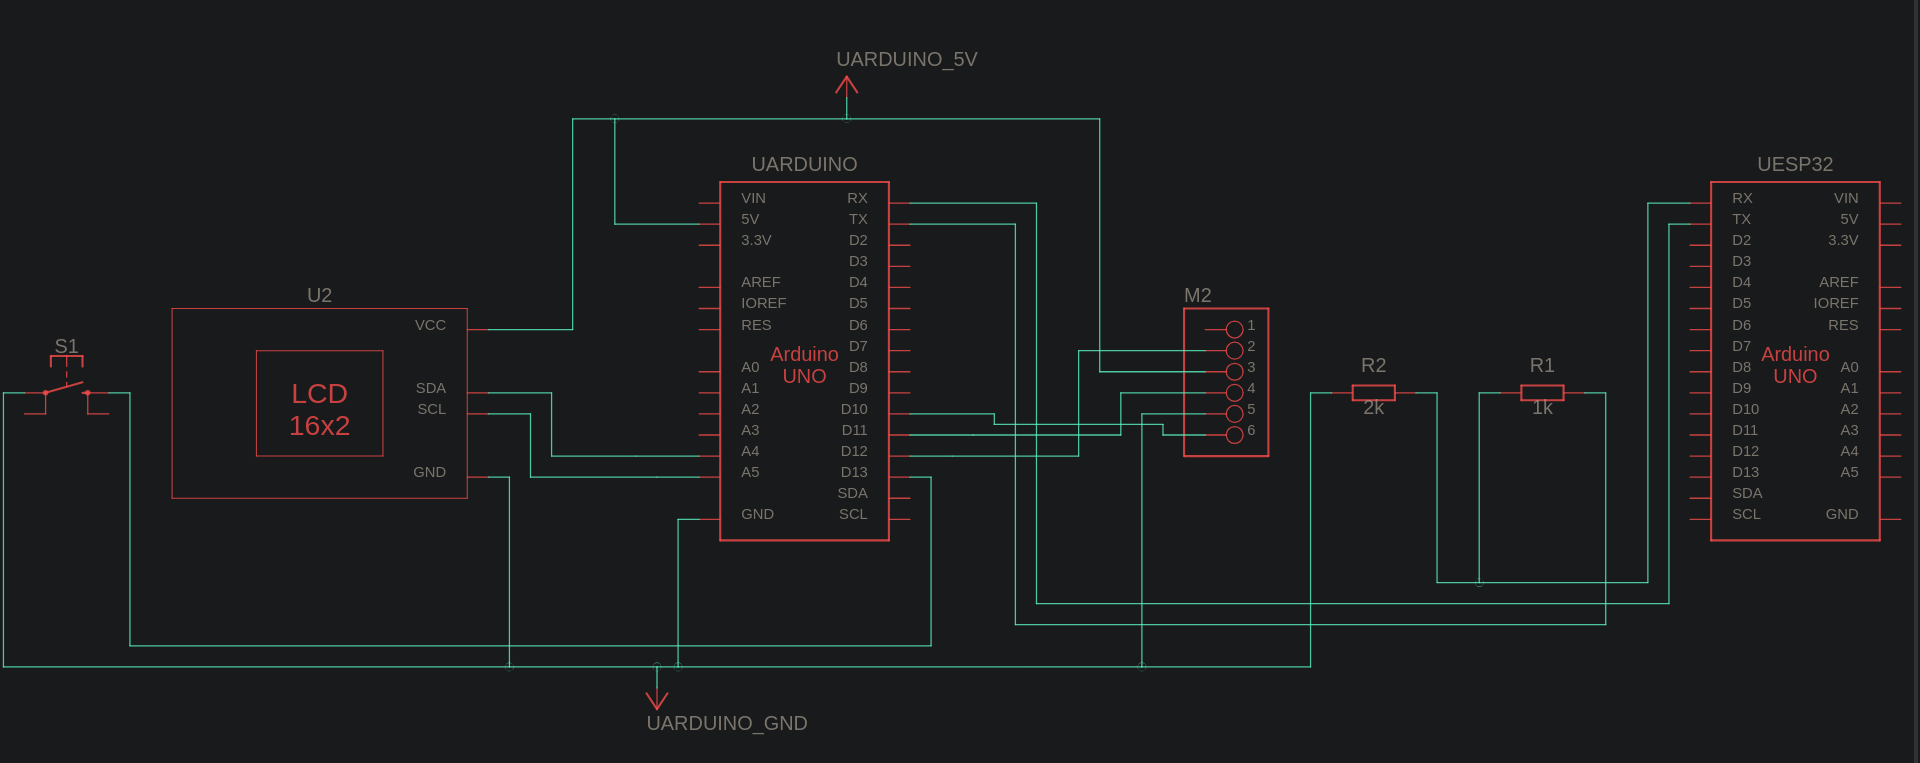
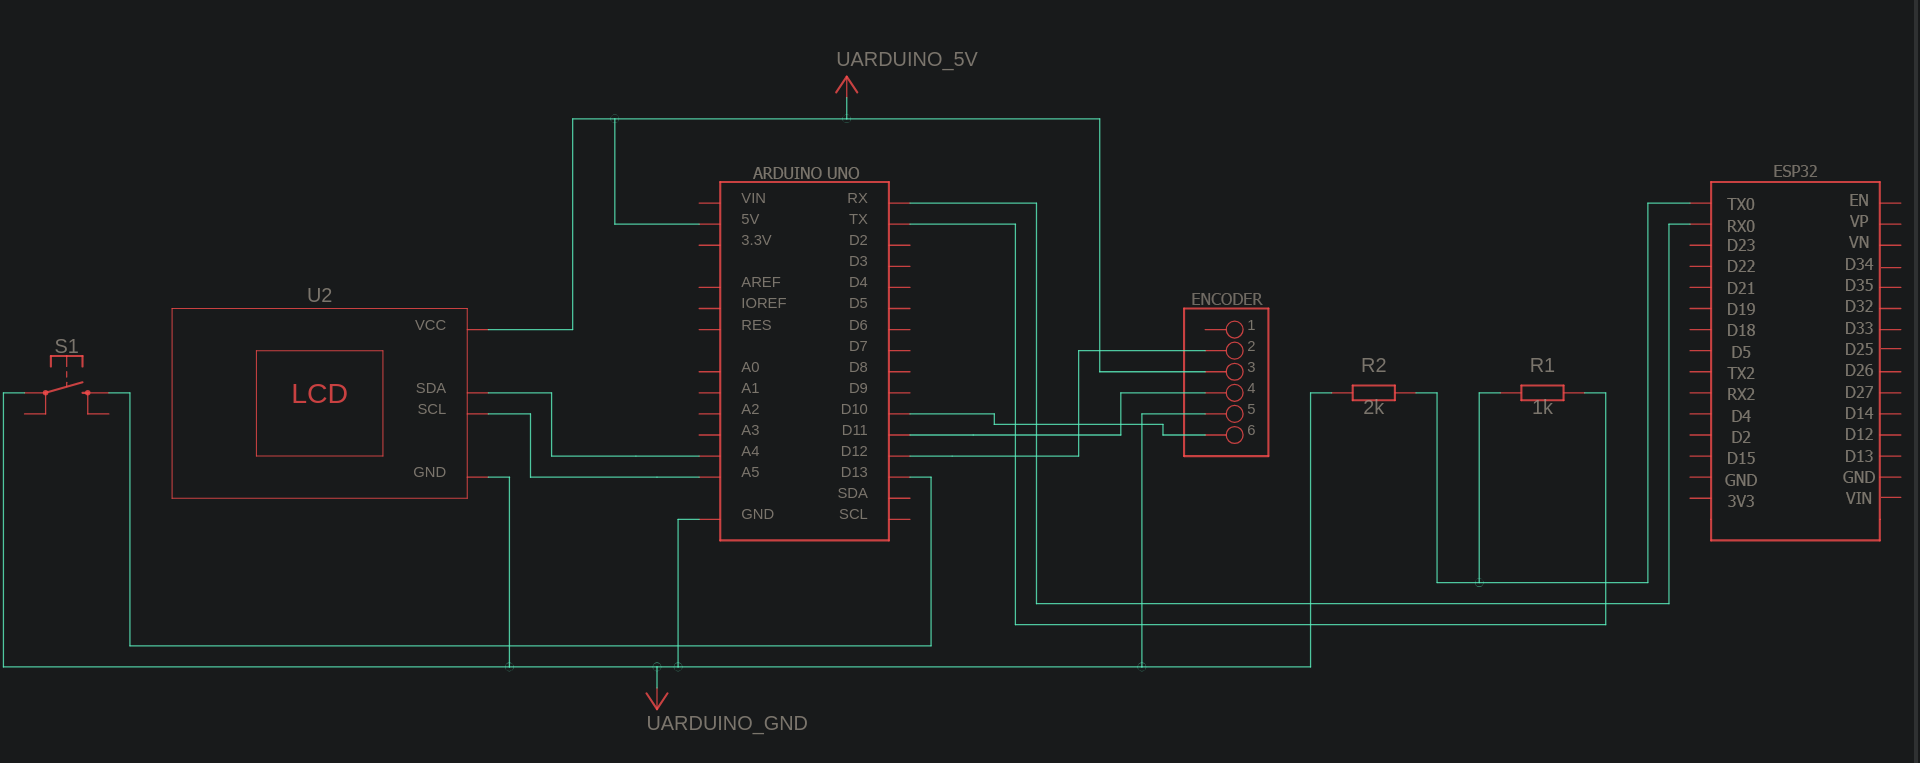
added tinkercad v0.2 scheme

diff --git a/README.md b/README.md
@@ -5,10 +5,10 @@
 This project evidentiates how an STM32 Development Board can, with the help of a Bluetooth Module, play music to external speakers.
 The workflow is as follows: a phone or Bluetooth capable device connects to the Bluetooth module capable of I2S; the module then connects to the ESP32 where audio processing happens; in parallel, the ESP32 is connected to an Arduino Uno R3 that handles an LCD Screen, buttons and the rotary encoder that serves the purpose of a volume knob; with both inputs combined, the output from the ESP32 heads into the external amplifier and into its builtin DAC, and finally to the speaker, where music is played.
 
-- Board             : Arduino Nano R3 & ESP32wroom32
-- Bluetooth Module  : -
-- Screen            : Oled 1.5"
-- Encoder           : Rotary
+- Board             : Arduino Nano R3 & ESP32
+- Bluetooth Module  : ESP32
+- Screen            : LCD 0.5"
+- Encoder           : Rotary Digital
 - Amplifier         : -
 - Speakers          : 3W 8ohm
 
